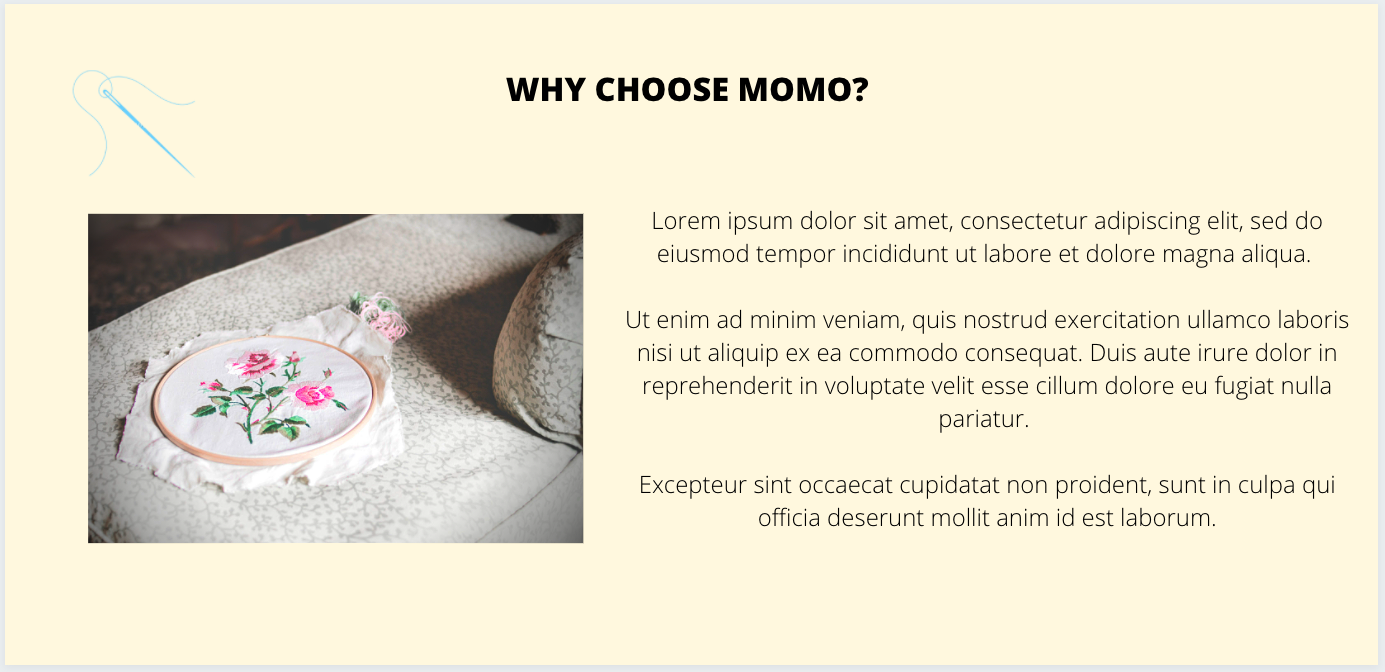
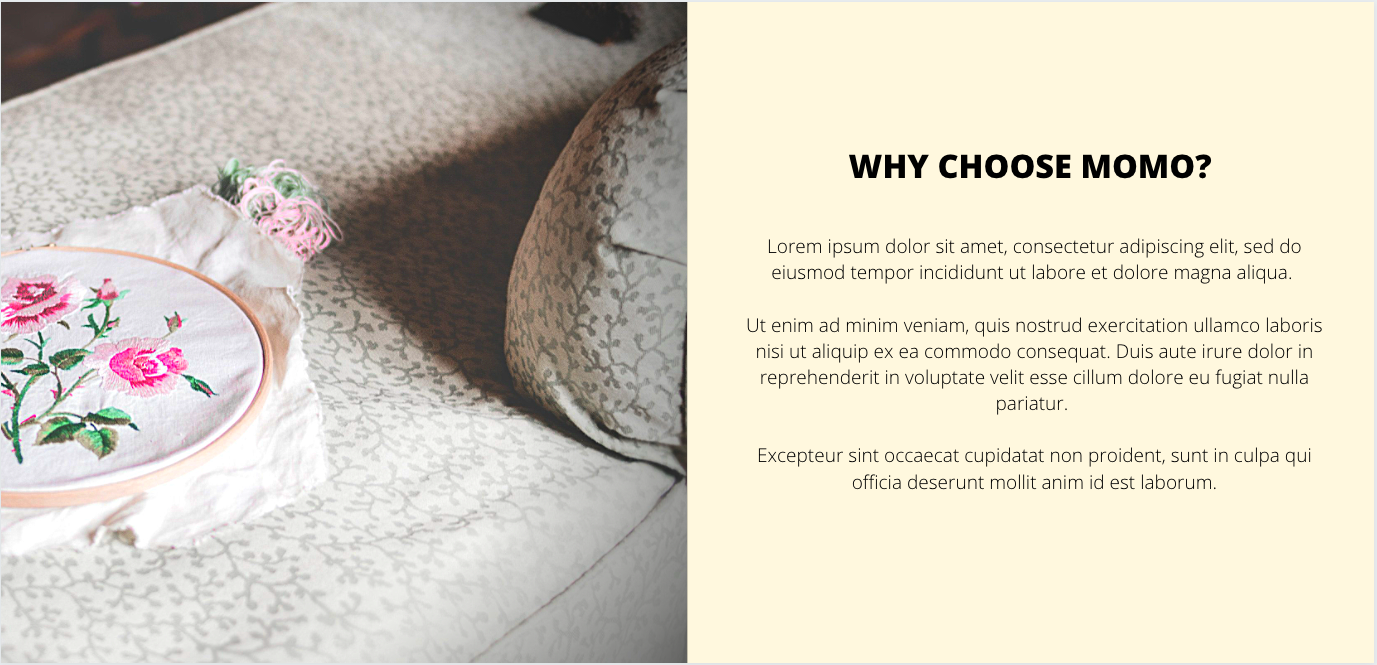
amendment to why section

diff --git a/src/Why.jsx b/src/Why.jsx
@@ -2,7 +2,7 @@ import React from "react";
 
 function Why() {
     return <div className="why-section">
-    <img className="dec-img" src={require('./images/dec-needle.png')} alt="decoration"></img>
+    {/* <img className="dec-img" src={require('./images/dec-needle.png')} alt="decoration"></img> */}
         <h1 className="why-heading">WHY CHOOSE MOMO CREATES?</h1>
         <div className="container">
     <div class="row">
